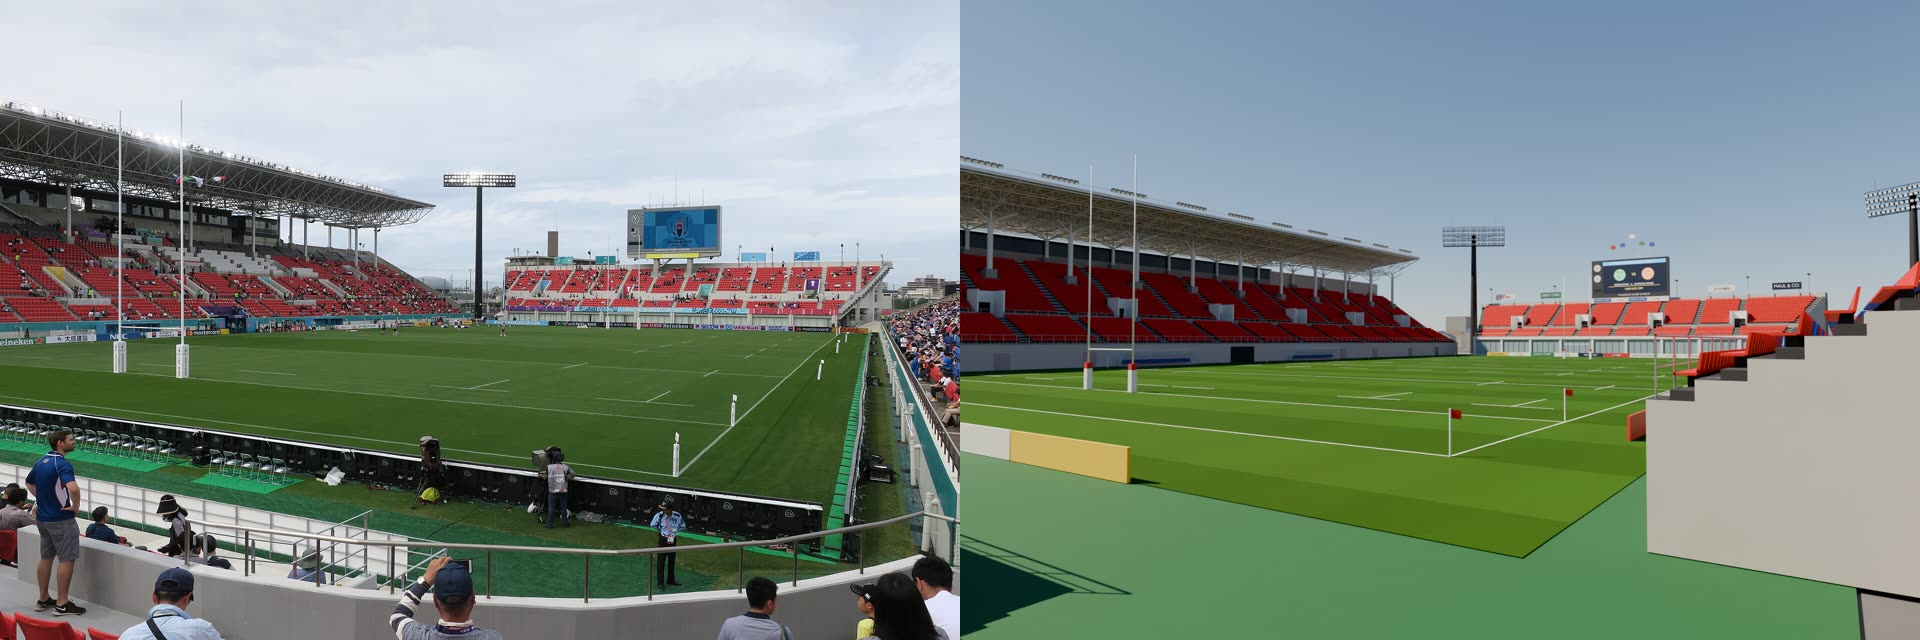
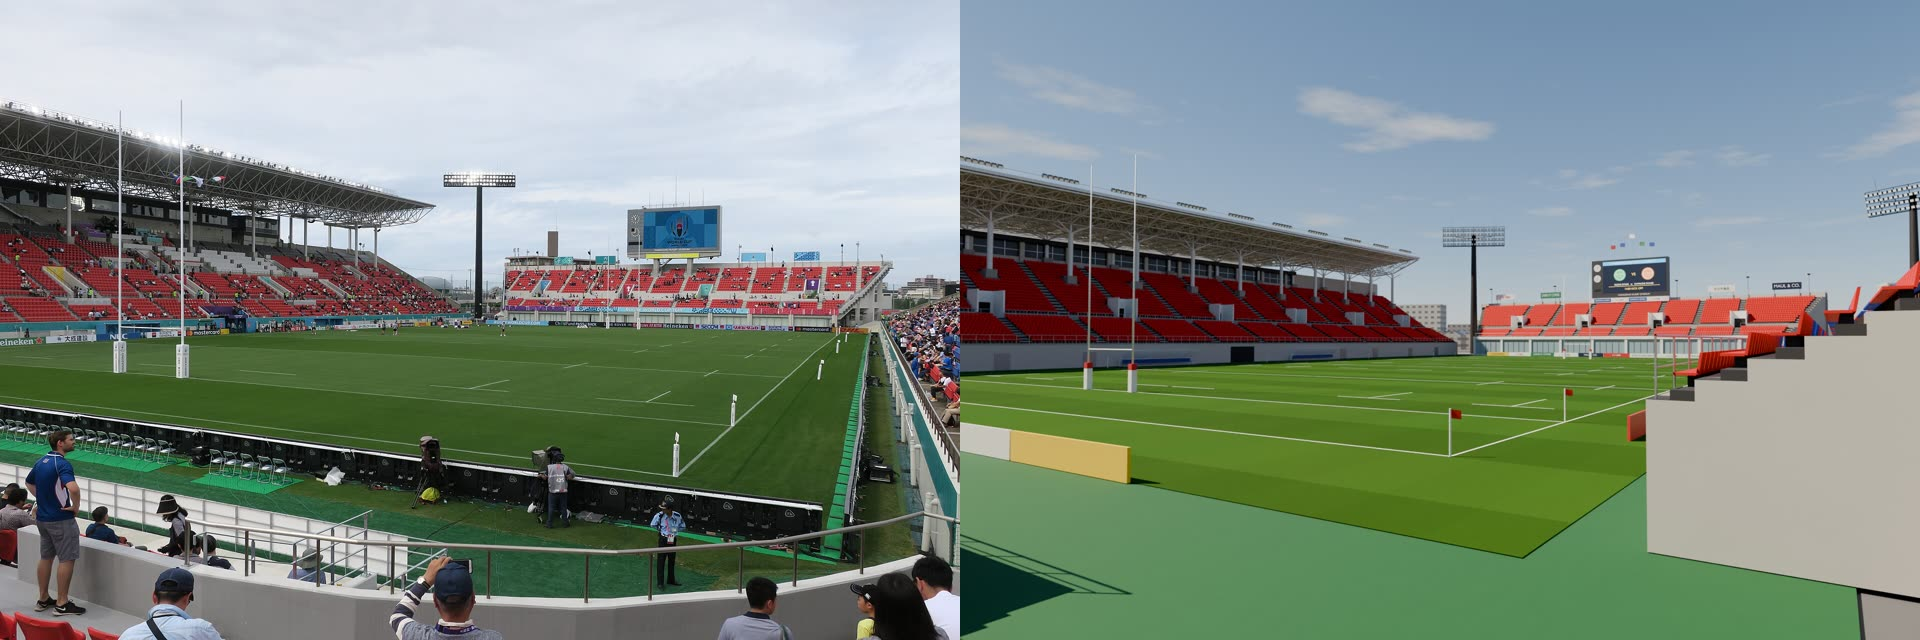
3 回目の直しを docs と PROGRESS.md に記録

diff --git a/docs/remaining.md b/docs/remaining.md
@@ -17,6 +17,16 @@
 10. 比較 01 の写真の場所を取り違えていた(南西ではなく南東の角) → カメラを置き直した
 11. 2 回目: 生駒山が大きすぎた → 少し遠ざけて暗くした。正面のタイルが大きすぎた → 細かくした
 12. 2 回目: 夜の投光器のまわりに光のにじみを足した(コンポジター。写真ほど強くはない)
+13. 3 回目: 中継風の角度で手前に写っていた屋根の柱を外した(カメラを柱と柱のあいだへ)
+14. 3 回目: 生駒山を実際の距離(山頂まで約 4.9 km、高さ 642 m)に置き直した。大きすぎた
+15. 3 回目: 空に雲を足した(空の色に、高さ一定の面に映した模様を混ぜる。雲の影は落ちない)
+16. 3 回目: 遠くほど空の色に溶ける霞を足した。町並みがミニチュアに見えにくくなった
+17. 3 回目: 南(映像装置の裏から見た奥)の町が空いていた → 公園の先も家で埋め、近鉄の線路と東花園駅のホーム屋根を足した
+18. 3 回目: 町にマンション(5〜11 階)と町工場を混ぜ、家の壁に窓を描いた。夜は 3 割ほどの窓に明かりがともる
+19. 3 回目: 夜の空を真っ黒から、地平線が少し明るい濃い青に
+20. 3 回目: メインスタンドの VIP・放送席のガラスの階を大きくし、方立て・柱型・ひさしをつけた。屋根の部材を太くした
+21. 3 回目: 南の正面のタイルを、下ほどガラスが多く、階の高さにガラスの帯が並ぶ規則にした
+22. 3 回目: 夜の外観に七色のライトアップを足した(本人からいただいた写真に合わせた。濃い色の帯だけが、青→緑→黄→赤紫→紫…と位置で色を変えて光る。階の帯のガラスに中の明かり、施設名と入口も光る)
 
 ## 残っている違い
 
@@ -41,19 +51,15 @@
 - 映像装置に映る内容、看板はすべて架空(依頼どおり)。実物の看板の数や位置とは合わせていない
 - 夜の投光器のまわりの光のにじみは足したが、写真のようなまぶしさや光の筋まではない
 - 夜の光は、塔ごと・屋根の区間ごとに面の光を 1 枚置いた近似。投光器 381 台を 1 台ずつ光源にはしていない
-- 夜の家並みに明かりはない
 
 周り
-- 家並みは乱数で置いた箱で、実在の建物ではない。道路は西の 1 本だけ。車も人もいない
+- 家並みは乱数で置いた箱(家、マンション、町工場)で、実在の建物ではない。道路は西の 1 本だけ。車も人もいない
+- 近鉄の線路は位置を地図から計算して地上に置いたが、高架かどうか、駅の形は確かめていない。電車は 1 本だけ止まっている
+- 町は半径 1.4 km まで。その先は霞んだ平らな地面
 - 隣の練習グラウンド、人工芝、ホッケー場、駐車場は色のついた四角だけ
 - 木は簡単な形。広場の花壇や植え込みは作っていない
-- 生駒山は稜線だけの板。空は雲のない晴れ
-
-## 仕上げの画像と動画で気になる所
-
-- 中継風の角度(broadcast)の昼夜で、右手前にメインスタンドの屋根の柱が大きく写る
-- 中継風の昼で、奥の生駒山が実物の写真より大きく見える
-- 一周の動画では家並みが地平線まで同じ調子で続き、少し単調
+- 生駒山は稜線だけの板(距離と高さは実際に合わせた)。雲は空の模様で、雲の影は地面に落ちない
+- 七色のライトアップの色の並びと明るさは写真 1 枚から決めた。実物は色が時間で変わる演出があるかもしれないが、資料が見つからず確かめていない(固定の虹色で作った)
 
 ## できなかったこと・やっていないこと
 

diff --git a/PROGRESS.md b/PROGRESS.md
@@ -5,22 +5,22 @@
 
 ## 今の段階
 
-**完了(2026-11-17)。** 終わりの条件 5 つはすべて満たした。
+**⑨の 3 回目(本人の「全部やろう」を受けて)の直しは済み、描き直しを裏で流している(2026-11-17 夜)。**
+`./run.sh compare` → `SAMPLES=160 ./run.sh stills` → `./run.sh video` を順に流している(合わせて 7 時間ほど)。
 
-- `./run.sh build` で build/hanazono.blend ができる(約 1 秒)
-- out/final/ に 5 角度 × 昼夜の静止画 10 枚(3840×2160、160 サンプル。⑨の 2 回目の直しを入れて描き直し済み)
-- out/hanazono_orbit.mp4: 一周の動画(30.0 秒、1920×1080、30 コマ/秒、昼)
-- docs/compare/: 参考写真と並べた比較 9 組と、作者・ライセンスの表
-- docs/remaining.md: 残った違いとできなかったこと
-- docs/lessons.md: 今回の学び。これをもとにスキル `blender-real-building`(~/.claude/skills/)を作った(試験は流さなくてよいと本人の判断)
+3 回目に直したこと(詳しくは docs/remaining.md の 13〜22):
+中継風カメラの柱、生駒山の距離、雲、霞、南の町と近鉄の線路、マンションと町工場、夜の窓の明かり、夜空、
+メインスタンドのガラスの階と屋根の太さ、正面のタイルの並び、夜の外観の七色のライトアップ。
 
-## 最後の確認で見つけた気になる所(直していない)
+## 次にやること(引き継ぎ用)
 
-- 中継風(broadcast)の昼夜: 右手前にメインスタンドの屋根の柱が大きく写り、画面の 1 割ほどを塞ぐ。カメラを柱の間へ 2〜3 m ずらせば消える(scripts/hz/cameras.py の "broadcast")
-- 中継風の昼: 奥の生駒山が大きく、空の半分近くを占める。実物の写真より山が近く見える(exterior.py の _mountain)
-- 動画: 一周のあいだ家並みが地平線まで続き、少し単調。遠くの家を減らすか、もやを足すと落ち着く
-
-直すなら: 上の 2 か所を直して `./run.sh build && SAMPLES=160 ./run.sh stills`(10 枚で約 1 時間半)。動画も描き直すなら `./run.sh video`(約 5 時間)。
+1. `pgrep -fl "orbit.py|render.py|compare.py"` で動いているか確かめる。動いていれば待つ(二重に流さない)
+2. 止まっていたら、できていない所から流し直す:
+   - docs/compare/ の画像が古い → `./run.sh compare`
+   - out/final/ の更新時刻が 2026-11-17 夜より古い → `SAMPLES=160 caffeinate -i ./run.sh stills`
+   - out/hanazono_orbit.mp4 が古い、または out/orbit_frames_day/ にコマが残っている → `caffeinate -i ./run.sh video`(続きから描く)
+3. 動画は数コマ、静止画は昼夜 1 枚ずつ(できれば exterior_night も)開いて確かめる
+4. 本人に日本語で短く報告し、このファイルを「完了」に書き直してコミット・push
 
 ## これまでに終わったこと
 

diff --git a/docs/reference.md b/docs/reference.md
@@ -96,6 +96,11 @@
 菱形のタイルの並びは実物どおりではなく、灰色の濃淡とガラスを乱数(種は固定)で割りふっている。
 東の遠くの山(生駒山)は、バックスタンドの上にのぞく高さが写真と合うように置いた板で、実際の距離や形ではない。
 
+夜の外観のライトアップ(南のスクラムスクリーン)は、公開資料に書かれたものが見つからなかった(Panasonic の事例ページ、旅行サイトを確認)。
+本人からいただいた夜の写真 1 枚に合わせて、濃い色の帯が位置ごとに虹色に光る形で作った(推定)。
+生駒山の山頂は北緯 34.6783・東経 135.6786 として、球場から約 4.9 km、ほぼ -Y の向き(方位 77°)、高さ 642 m に置いた。
+近鉄奈良線は東花園駅(北緯 34.6646・東経 135.6178)を通る東西の線として計算した。
+
 ## 6. 見た目の参考にした写真
 
 `refs/` に保存してあるが、他の人の著作物なので git には入れない。
